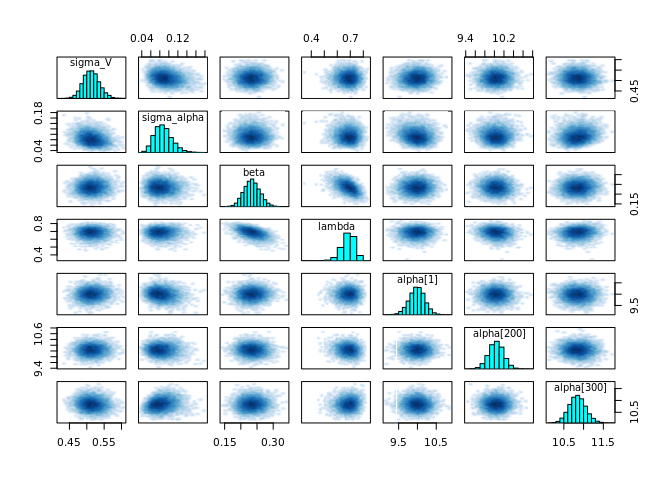
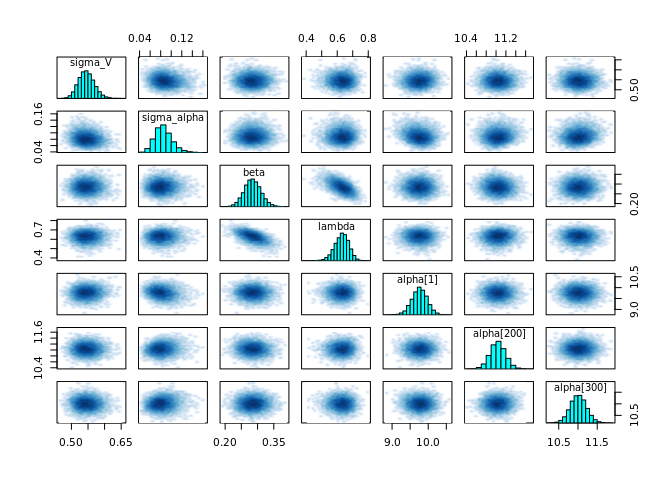
Readme Demonstration script

diff --git a/README.md b/README.md
@@ -12,7 +12,7 @@ require(ggplot2)
 options(mc.cores=parallel::detectCores())
 
 rm(list=ls())
-set.seed(123)
+set.seed(1)
 ```
 
 ------------------------------------------------------------------------
@@ -116,44 +116,6 @@ x <- x[-H] # Trim lag horizon
 #### Compile results for fit 2
 
 ``` r
-# Interpretation below is relevant only if signs of convergence in MCMC are observed
-# Only focusing on the parameters from the fit 3 above
-
-
-# Histogram ofposterior distribtion compared with true value 
-plotHist <- function(fit, param, trueValue, range = NA, label = ""){
-  # Extract posteiror simulation 
-  post <- rstan::extract(fit, pars =  c(eval(param)), permuted = TRUE, inc_warmup = FALSE)
-  sim <- post[[1]]
-  
-  # Plot 
-  p <- ggplot() + aes(sim)+ 
-    geom_histogram(fill="grey", color="white") + 
-    theme_classic() +  
-    geom_vline(xintercept = trueValue, lty = 5) + 
-    xlab(label) + ylab("") +
-    theme(axis.text = element_text(size = 12))
-  
-  # Range of X axist if needed
-  if(!is.na(range)){
-    p <- p + scale_x_continuous(limits=c(range[1],range[2]))  
-  }
-  return(p)
-}
-
-plotList <- list()
-plotList[[1]] <- plotHist(fit3,  param = "sigma_alpha", trueValue = sigma_alphaLevel, label = expression(sigma[alpha]))
-plotList[[2]] <- plotHist(fit3,  param = "sigma_V", trueValue = sigma_Y, label = expression(sigma[Y]))
-
-cowplot::plot_grid(plotlist = plotList, ncol = 2, labels = "auto", label_fontface = "plain")
-```
-
-    ## `stat_bin()` using `bins = 30`. Pick better value with `binwidth`.
-    ## `stat_bin()` using `bins = 30`. Pick better value with `binwidth`.
-
-![](README_files/figure-markdown_github/unnamed-chunk-4-1.png)
-
-``` r
 ### Generate Impuse response function from fit 
 post <- rstan::extract(fit3, pars =  c("beta", "lambda"), permuted = TRUE, inc_warmup = FALSE)
 betaPosterior = post[[1]]; lambdaPosterior = post[[2]]
@@ -182,7 +144,7 @@ p <-  ggplot(data = irfWeight, aes(x=(weekLag), y=median)) +
 p + geom_line(aes(y = lagTrue, colour = "red"), linetype="dashed")
 ```
 
-![](README_files/figure-markdown_github/unnamed-chunk-4-2.png)
+![](README_files/figure-markdown_github/unnamed-chunk-4-1.png)
 
 ``` r
 # Posteior fit check, comparison of fitted and unobserved (true) value 
@@ -197,19 +159,4 @@ p + geom_line(aes(y = lagTrue, colour = "red"), linetype="dashed")
  title(main = "Predictive distribution of and observed Y \n Fitted mean:solid line, 95% credible interval: dotted line, overved Y: cross ")
 ```
 
-![](README_files/figure-markdown_github/unnamed-chunk-4-3.png)
-
-``` r
-# Compare posteior of alpha and true values  
-params <- rstan::extract(fit3, pars = "alpha")
-mean <- apply(params$alpha, 2, mean)
-lo <- apply(params$alpha, 2, quantile, 0.025)
-hi <- apply(params$alpha, 2, quantile, 0.975)
-plot(lo, type = "l", lty = "dotted", ylim = range(c(mean, lo, hi)), ylab = expression(alpha[t]), xlab = "Time")
-points(alpha, pch = 3, cex = 0.5, col = "blue")
-lines(hi, lty = "dotted")
-lines(mean, type = "l", lwd = 1)
-title(main = "Estimated (solid line) and true (dot) value of stochastic intercept \n and 95% credible interval (dotted line)")
-```
-
-![](README_files/figure-markdown_github/unnamed-chunk-4-4.png)
+![](README_files/figure-markdown_github/unnamed-chunk-4-2.png)
